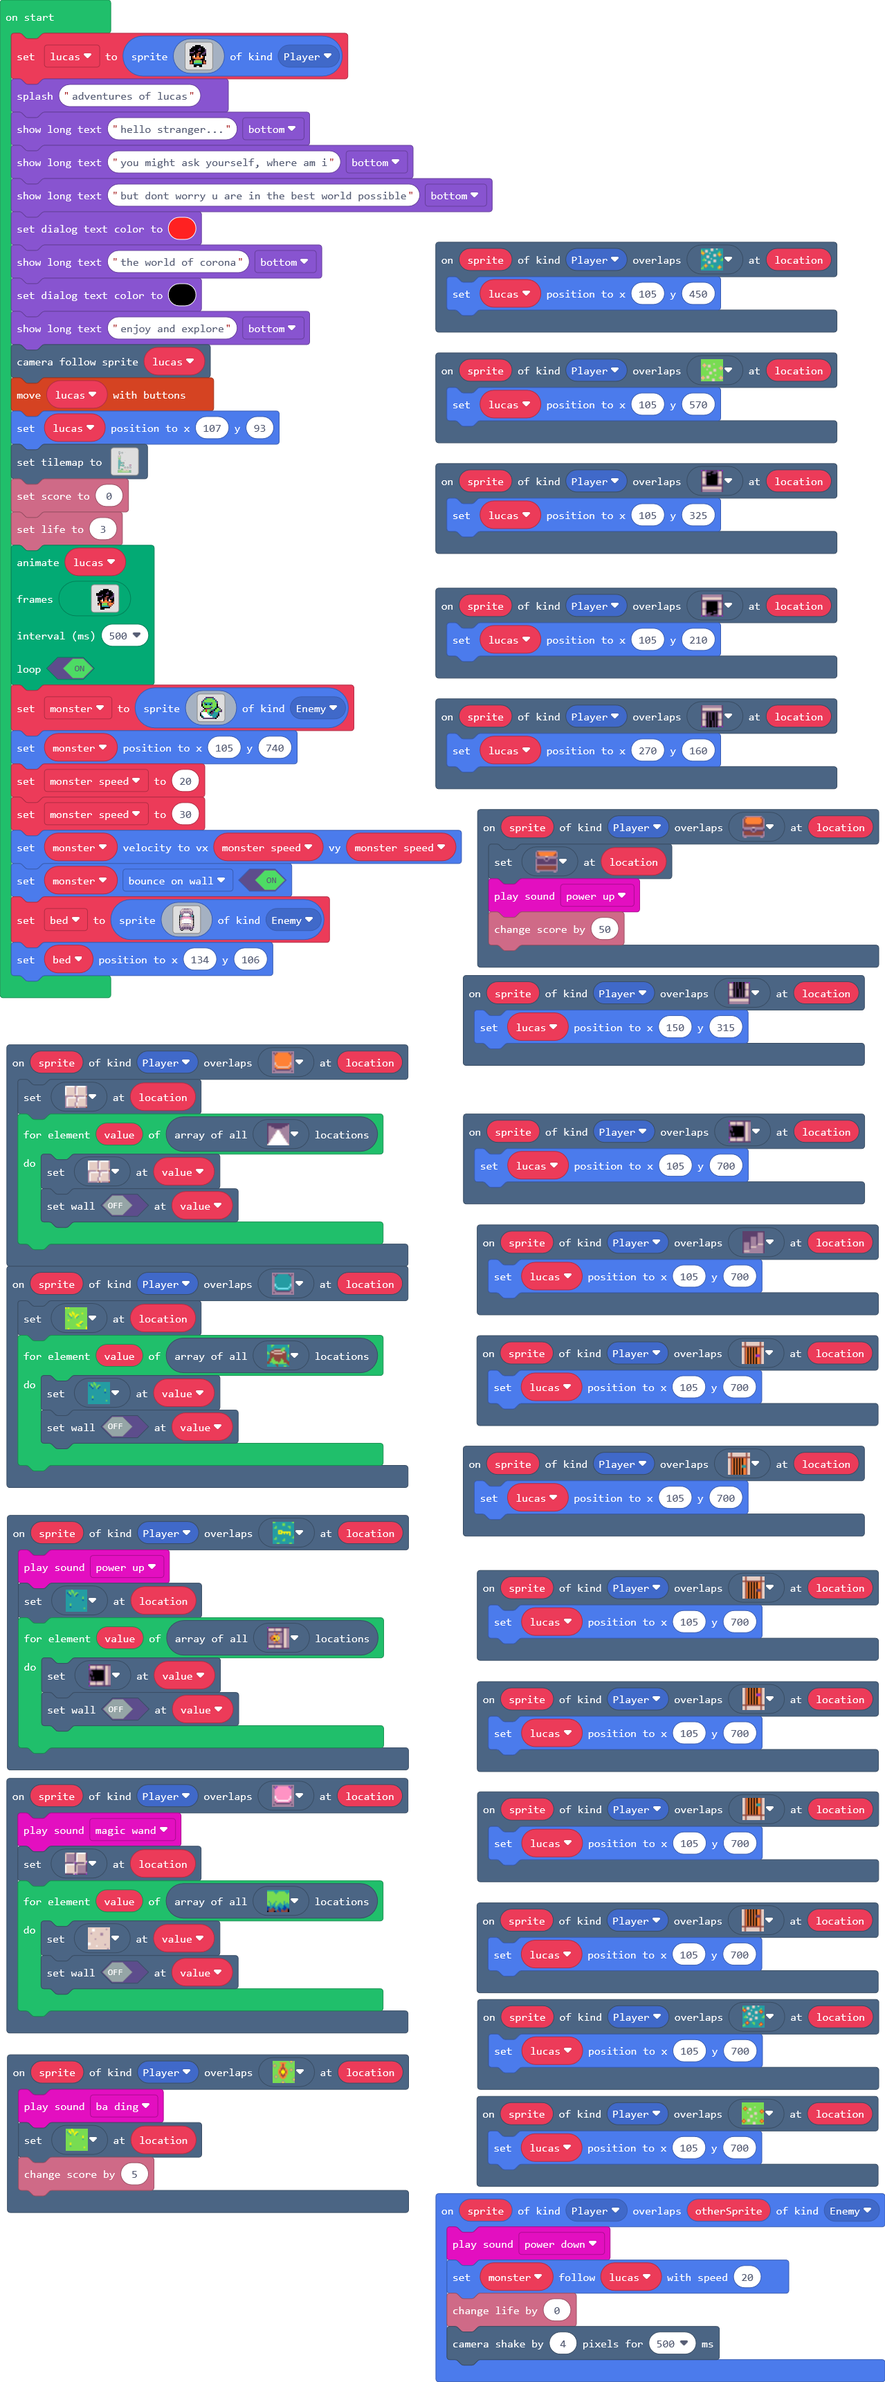
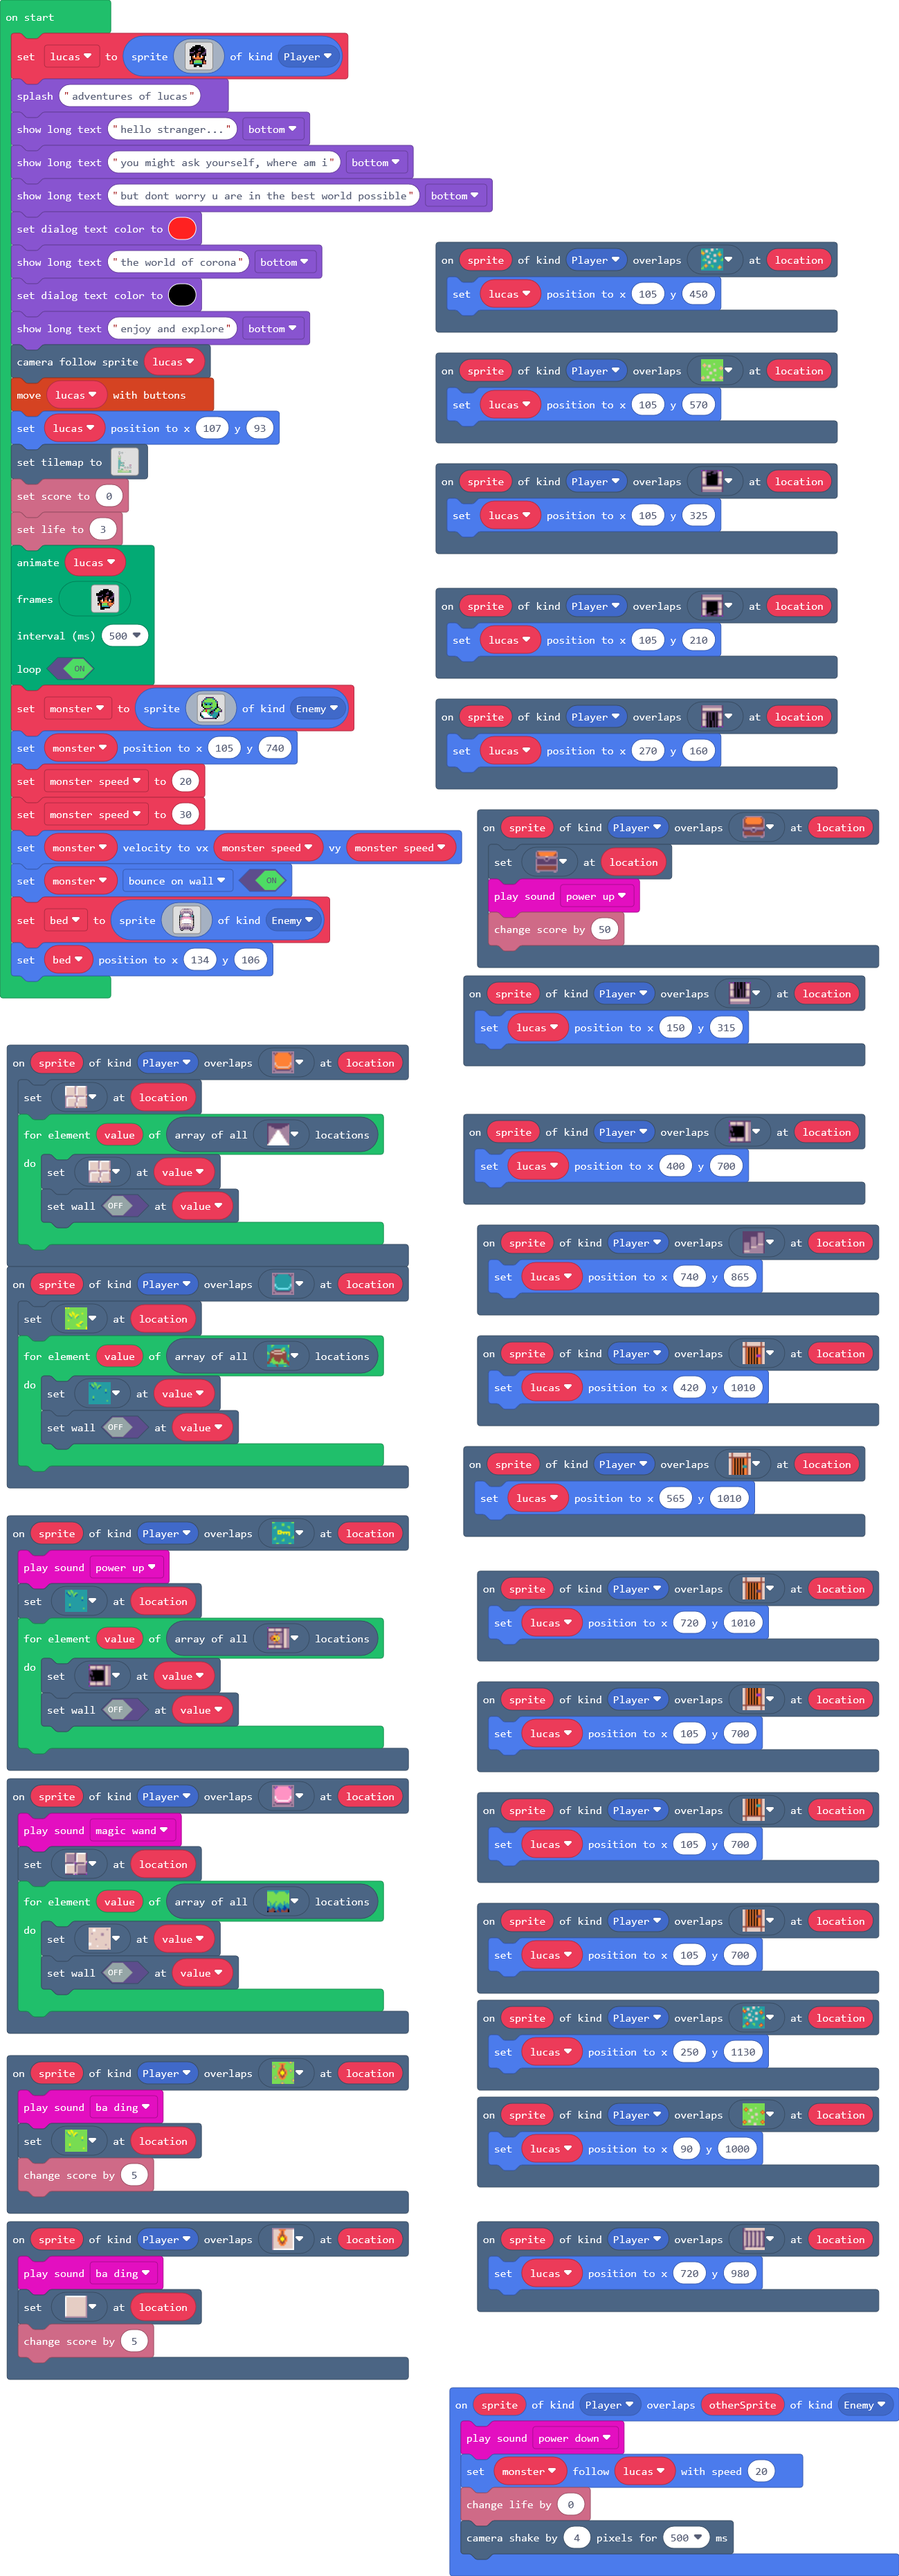
Update main.blocks, main.ts

diff --git a/main.ts b/main.ts
@@ -405,7 +405,7 @@ b 1 1 1 1 1 1 1 1 1 1 1 1 1 1 1
 `
 }
 scene.onOverlapTile(SpriteKind.Player, sprites.dungeon.doorOpenEast, function (sprite, location) {
-    lucas.setPosition(105, 700)
+    lucas.setPosition(400, 700)
 })
 scene.onOverlapTile(SpriteKind.Player, myTiles.tile9, function (sprite, location) {
     music.powerUp.play()
@@ -419,7 +419,7 @@ scene.onOverlapTile(SpriteKind.Player, sprites.dungeon.doorClosedSouth, function
     lucas.setPosition(150, 315)
 })
 scene.onOverlapTile(SpriteKind.Player, myTiles.tile13, function (sprite, location) {
-    lucas.setPosition(105, 700)
+    lucas.setPosition(565, 1010)
 })
 scene.onOverlapTile(SpriteKind.Player, sprites.dungeon.buttonPink, function (sprite, location) {
     music.magicWand.play()
@@ -440,7 +440,12 @@ scene.onOverlapTile(SpriteKind.Player, sprites.dungeon.doorOpenSouth, function (
     lucas.setPosition(105, 325)
 })
 scene.onOverlapTile(SpriteKind.Player, myTiles.tile12, function (sprite, location) {
-    lucas.setPosition(105, 700)
+    lucas.setPosition(420, 1010)
+})
+scene.onOverlapTile(SpriteKind.Player, myTiles.tile22, function (sprite, location) {
+    music.baDing.play()
+    tiles.setTileAt(location, sprites.dungeon.floorLight2)
+    info.changeScoreBy(5)
 })
 scene.onOverlapTile(SpriteKind.Player, myTiles.tile5, function (sprite, location) {
     lucas.setPosition(105, 570)
@@ -452,7 +457,10 @@ scene.onOverlapTile(SpriteKind.Player, myTiles.tile20, function (sprite, locatio
     lucas.setPosition(105, 700)
 })
 scene.onOverlapTile(SpriteKind.Player, sprites.dungeon.stairLarge, function (sprite, location) {
-    lucas.setPosition(105, 700)
+    lucas.setPosition(740, 865)
+})
+scene.onOverlapTile(SpriteKind.Player, sprites.dungeon.stairEast, function (sprite, location) {
+    lucas.setPosition(720, 980)
 })
 scene.onOverlapTile(SpriteKind.Player, sprites.dungeon.doorOpenNorth, function (sprite, location) {
     lucas.setPosition(105, 210)
@@ -470,7 +478,7 @@ scene.onOverlapTile(SpriteKind.Player, sprites.dungeon.doorClosedNorth, function
     lucas.setPosition(270, 160)
 })
 scene.onOverlapTile(SpriteKind.Player, myTiles.tile8, function (sprite, location) {
-    lucas.setPosition(105, 700)
+    lucas.setPosition(250, 1130)
 })
 scene.onOverlapTile(SpriteKind.Player, myTiles.tile7, function (sprite, location) {
     music.baDing.play()
@@ -483,7 +491,7 @@ scene.onOverlapTile(SpriteKind.Player, sprites.dungeon.chestClosed, function (sp
     info.changeScoreBy(50)
 })
 scene.onOverlapTile(SpriteKind.Player, myTiles.tile11, function (sprite, location) {
-    lucas.setPosition(105, 700)
+    lucas.setPosition(720, 1010)
 })
 scene.onOverlapTile(SpriteKind.Player, sprites.dungeon.buttonOrange, function (sprite, location) {
     tiles.setTileAt(location, sprites.dungeon.floorLight4)
@@ -496,7 +504,7 @@ scene.onOverlapTile(SpriteKind.Player, myTiles.tile19, function (sprite, locatio
     lucas.setPosition(105, 700)
 })
 scene.onOverlapTile(SpriteKind.Player, myTiles.tile10, function (sprite, location) {
-    lucas.setPosition(105, 700)
+    lucas.setPosition(90, 1000)
 })
 let monster: Sprite = null
 let lucas: Sprite = null
